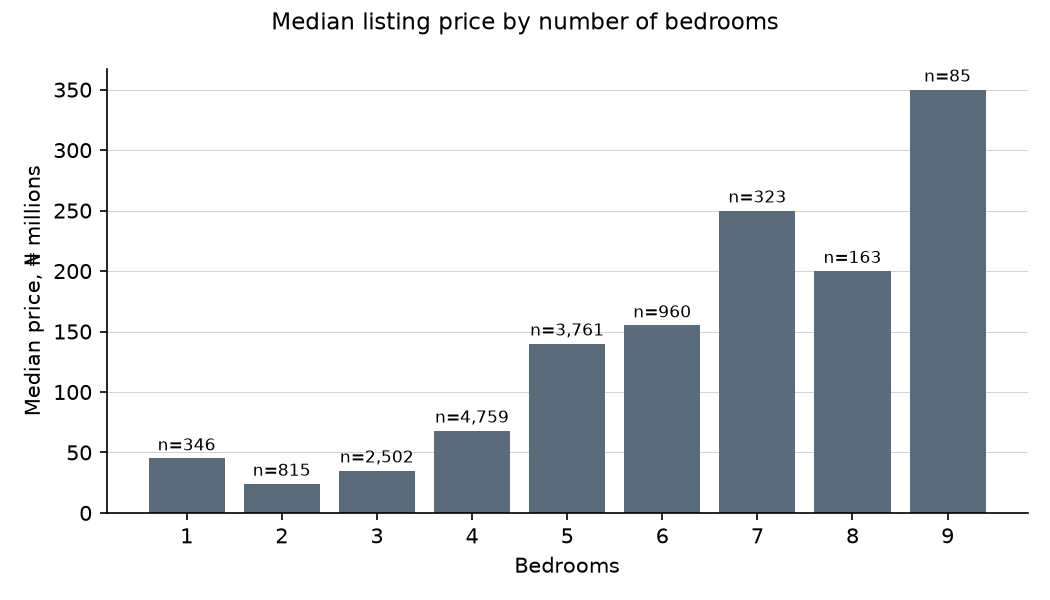
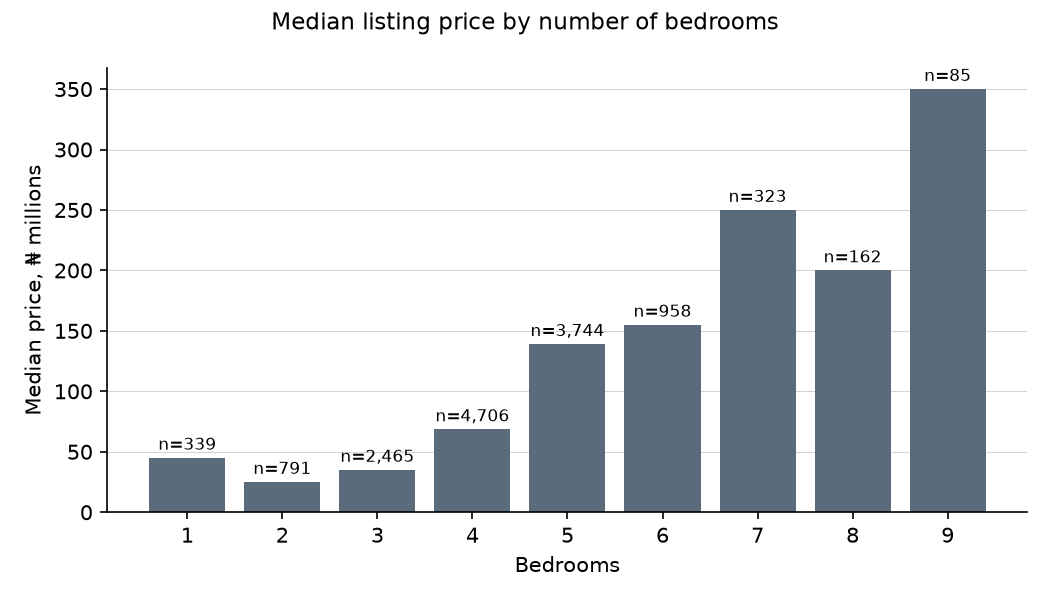
Retrain and update results; explain MAE vs MdAPE and log-target bias
Refresh the README table and charts after dropping "Anambara" and restoring
MdAPE. The Results section now explains that MAE is dragged up by expensive
listings (so MdAPE is the typical error) and that back-transforming from log
price gives median-like predictions, which under-predict the mean price by
about 20%. CLAUDE.md data notes updated to match.

diff --git a/README.md b/README.md
@@ -88,23 +88,33 @@ the training split only.
 
 ![Model comparison chart](assets/model_comparison.png)
 
-| Model | R² (log price) | RMSE (₦M) | MAE (₦M) | CV R² (log price), mean ± std |
-|---|---:|---:|---:|---:|
-| **Neural Net (MLP)** | 0.701 | 172.9 | 71.6 | 0.708 ± 0.011 |
-| Ridge Regression | 0.687 | 172.8 | 73.2 | 0.694 ± 0.011 |
-| Linear Regression *(baseline)* | 0.687 | 172.6 | 73.3 | 0.693 ± 0.011 |
-| Gradient Boosting | 0.686 | 169.0 | 71.6 | 0.686 ± 0.010 |
-| Random Forest | 0.674 | 170.3 | 72.1 | 0.681 ± 0.009 |
-| Decision Tree | 0.598 | 177.0 | 75.4 | 0.609 ± 0.014 |
+| Model | R² (log price) | RMSE (₦M) | MAE (₦M) | MdAPE | CV R² (log price), mean ± std |
+|---|---:|---:|---:|---:|---:|
+| **Neural Net (MLP)** | 0.720 | 161.4 | 67.7 | 32.9% | 0.704 ± 0.019 |
+| Ridge Regression | 0.689 | 166.3 | 71.0 | 35.0% | 0.692 ± 0.015 |
+| Linear Regression *(baseline)* | 0.688 | 166.1 | 71.1 | 35.0% | 0.691 ± 0.015 |
+| Gradient Boosting | 0.685 | 166.7 | 70.1 | 35.3% | 0.684 ± 0.011 |
+| Random Forest | 0.683 | 164.3 | 70.7 | 35.2% | 0.676 ± 0.017 |
+| Decision Tree | 0.606 | 171.5 | 75.6 | 38.7% | 0.601 ± 0.019 |
 
 R² is measured on log price, the scale the models are trained on. RMSE and MAE are
-in naira, after converting predictions back from the log scale.
+in naira, after converting predictions back from the log scale. MdAPE is the median
+absolute percentage error: half of the test-set predictions are within that
+percentage of the listed price.
 
-**Best model: Neural Net (MLP)**, with R² = 0.701 on log price (0.708 in
-cross-validation). It only narrowly beats the Linear Regression baseline (0.687), and
-Gradient Boosting has the lowest RMSE. The more flexible models therefore add little
-over a linear fit on these features. Much of the remaining error likely comes from
-what the listings don't record: floor area, age, condition and exact location.
+MAE is dragged up by a small number of very expensive listings (the median test price
+is ₦75M, the mean ₦156M), so MdAPE (about ±33–35%) is the better measure of a
+model's typical error. Converting predictions back from log price gives roughly the
+*median* price for a given listing, not the mean, so the models under-predict the
+average price by about 20% (mean prediction ÷ mean actual price is 0.77–0.83 on the
+test set).
+
+**Best model: Neural Net (MLP)**, with R² = 0.720 on log price (0.704 in
+cross-validation) and the lowest RMSE, MAE and MdAPE. It beats the Linear Regression
+baseline (0.688) only modestly, and by just 0.013 in cross-validation. The more
+flexible models therefore add little over a linear fit on these features. Much of
+the remaining error likely comes from what the listings don't record: floor area,
+age, condition and exact location.
 
 ## Why we changed datasets
 

diff --git a/CLAUDE.md b/CLAUDE.md
@@ -128,10 +128,14 @@ Regression first, a colour per model) rather than any model's accuracy. `test_da
 
 ### Data notes
 
-- Current results (test set): MLP best at R2_log ≈ 0.70, with the Linear Regression
-  baseline, Ridge and Gradient Boosting within ~0.02; MAE ≈ ₦72M. If a change moves
-  these a lot, suspect a pipeline bug (e.g. leakage or a dropped transform) before
-  celebrating or tuning.
+- Current results (test set): MLP best at R2_log ≈ 0.72 (CV ≈ 0.70), with the Linear
+  Regression baseline, Ridge and Gradient Boosting around 0.69; MAE ≈ ₦68–71M,
+  MdAPE ≈ 33–35%. If a change moves these a lot, suspect a pipeline bug (e.g. leakage
+  or a dropped transform) before celebrating or tuning.
+- Because the target is log(price), back-transformed predictions are median-like:
+  mean prediction is ~20% below the mean actual price. This is expected, not a bug.
+  MdAPE is the metric to quote for typical error (MAE is inflated by the priciest
+  listings).
 - `title` values are the site's own categories (`Detached Duplex`, `Terraced Duplexes`,
   `Block of Flats`, ...); keep them as-is.
 - Some town names exist in more than one state, which is why the app filters towns by
